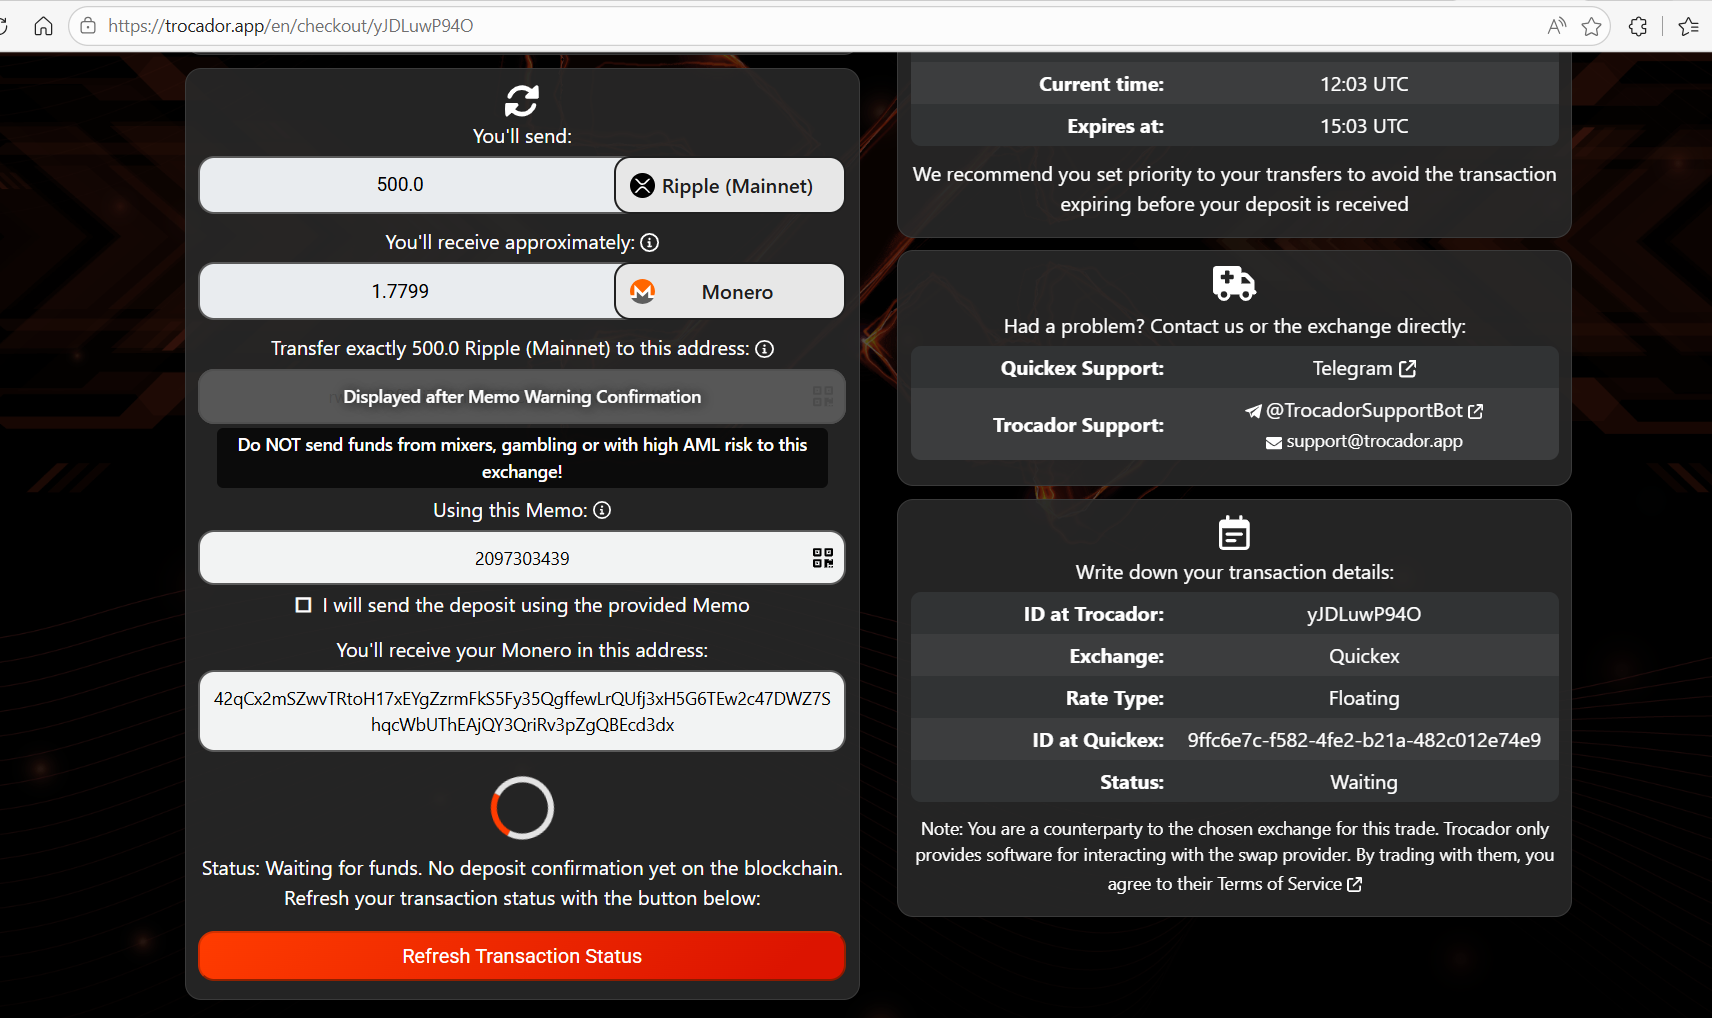
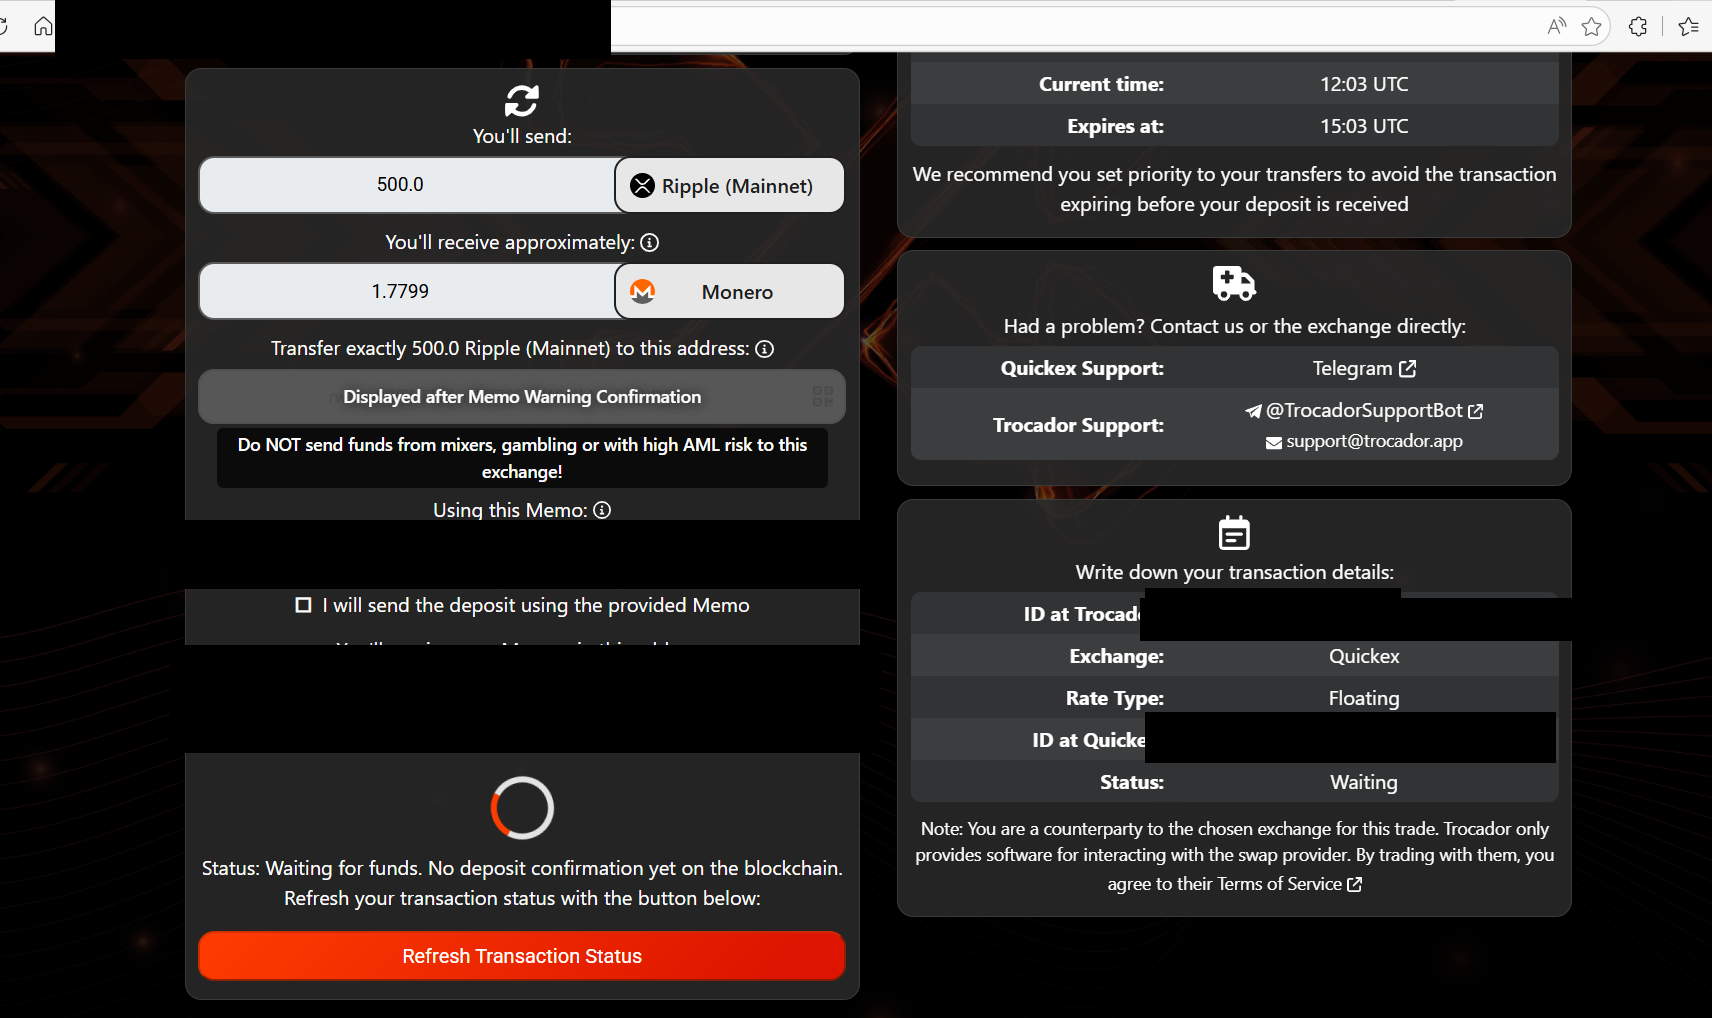
Add visual guide for swapping assets into Monero safely
Embed redacted screenshots to illustrate the swap process and protect user privacy.

Replit-Commit-Author: Agent
Replit-Commit-Session-Id: becae064-46f1-47b0-a414-b87196d20780
Replit-Commit-Checkpoint-Type: full_checkpoint
Replit-Commit-Event-Id: bf2f6d5e-f2f5-4274-a378-939c08b301c9
Replit-Commit-Screenshot-Url: https://storage.googleapis.com/screenshot-production-us-central1/803dbb6f-bc6e-4d16-8dab-da23c27c28c7/becae064-46f1-47b0-a414-b87196d20780/66jAvKe
Replit-Helium-Checkpoint-Created: true

diff --git a/client/src/pages/own-privately.tsx b/client/src/pages/own-privately.tsx
@@ -14,6 +14,10 @@ import {
   Lock,
   AlertTriangle,
 } from "lucide-react";
+import guideTab from "@assets/guide/guide-1-tab.png";
+import guideSwap from "@assets/guide/guide-2-swap.png";
+import guideAddress from "@assets/guide/guide-3-address.png";
+import guideSend from "@assets/guide/guide-4-send.png";
 
 interface PrivacyProvider {
   id: string;
@@ -229,6 +233,20 @@ export default function OwnPrivately() {
                 <strong>no results for XMR</strong>). The trick is always two moves:{" "}
                 <strong>get an ordinary coin first, then swap that coin into Monero.</strong>
               </p>
+              <figure className="mt-3 overflow-hidden rounded-lg border border-border bg-muted/30">
+                <img
+                  src={guideTab}
+                  alt="Searching xmr in Trocador's Buy/Sell dollars tab returns no results"
+                  className="w-full"
+                  loading="lazy"
+                  data-testid="img-guide-tab"
+                />
+                <figcaption className="border-t border-border px-3 py-2 text-xs text-muted-foreground">
+                  Searching <strong>"xmr"</strong> in the <strong>Buy/Sell</strong> (dollars) tab shows
+                  nothing — Monero can't be bought with a card. That's expected. The{" "}
+                  <strong>Swap</strong> tab is where it happens.
+                </figcaption>
+              </figure>
               <ul className="mt-2 space-y-1 text-muted-foreground">
                 <li>
                   <strong>Already own some crypto?</strong> Use a <strong>no-KYC swap service</strong>{" "}
@@ -287,6 +305,19 @@ export default function OwnPrivately() {
                 Choose the coin you already own as the "You send" coin (e.g. XRP), and set "You
                 receive" to <strong>Monero</strong>. Enter how much you want to send.
               </p>
+              <figure className="mt-3 overflow-hidden rounded-lg border border-border bg-muted/30">
+                <img
+                  src={guideSwap}
+                  alt="Trocador Swap tab with You send set to Ripple and trade for set to Monero"
+                  className="w-full"
+                  loading="lazy"
+                  data-testid="img-guide-swap"
+                />
+                <figcaption className="border-t border-border px-3 py-2 text-xs text-muted-foreground">
+                  The <strong>Swap</strong> tab: set <strong>You send</strong> to the coin you own,{" "}
+                  <strong>To trade for</strong> to Monero, then press <strong>Exchange</strong>.
+                </figcaption>
+              </figure>
             </div>
           </div>
           <div className="flex items-start gap-3" data-testid="swap-step-2">
@@ -300,6 +331,19 @@ export default function OwnPrivately() {
                 enter an XRP (or other) address here — that one comes next, and it comes <em>from</em>{" "}
                 the swap site to you.
               </p>
+              <figure className="mt-3 overflow-hidden rounded-lg border border-border bg-muted/30">
+                <img
+                  src={guideAddress}
+                  alt="Trocador exchange list with a box to paste your Monero receiving address"
+                  className="w-full"
+                  loading="lazy"
+                  data-testid="img-guide-address"
+                />
+                <figcaption className="border-t border-border px-3 py-2 text-xs text-muted-foreground">
+                  Pick an exchange row, then paste <strong>your Monero receiving address</strong> into
+                  the "receiving address" box and confirm. That's the only address you type.
+                </figcaption>
+              </figure>
             </div>
           </div>
           <div className="flex items-start gap-3" data-testid="swap-step-3">
@@ -317,6 +361,20 @@ export default function OwnPrivately() {
                 <strong>"Destination Tag"</strong> field, and send the <strong>exact amount</strong>{" "}
                 shown. You're sending from Uphold straight to the swap provider — never through us.
               </p>
+              <figure className="mt-3 overflow-hidden rounded-lg border border-border bg-muted/30">
+                <img
+                  src={guideSend}
+                  alt="Trocador checkout showing the deposit address and memo to send your coin to, with private details blanked out"
+                  className="w-full"
+                  loading="lazy"
+                  data-testid="img-guide-send"
+                />
+                <figcaption className="border-t border-border px-3 py-2 text-xs text-muted-foreground">
+                  The swap site now gives you a <strong>deposit address</strong> and a{" "}
+                  <strong>Memo</strong> — copy both into Uphold's send screen. (We've blanked out the
+                  real address, memo and IDs in this example for privacy.)
+                </figcaption>
+              </figure>
             </div>
           </div>
           <div className="rounded-md border border-primary/30 bg-primary/5 px-3 py-2" data-testid="text-address-direction">

diff --git a/client/public/sw.js b/client/public/sw.js
@@ -3,7 +3,7 @@
 // cache-first for static assets (icons, fonts, images).
 // Bumping CACHE_VERSION forces all clients to refresh on next load.
 
-const CACHE_VERSION = "cob-v24";
+const CACHE_VERSION = "cob-v26";
 const STATIC_CACHE = `${CACHE_VERSION}-static`;
 const RUNTIME_CACHE = `${CACHE_VERSION}-runtime`;
 

diff --git a/TODO.md b/TODO.md
@@ -1,6 +1,8 @@
 # CryptoOwnBank — To-Do List & Decision Log
 
-**Last updated: 2026-06-03 by main agent (Added a "heads up" note to the memo warning on `/own-privately`: some swap services hide the deposit address until you tick the memo-confirmation box. The founder noticed on Trocador's checkout that the XRP deposit address only appeared after he checked "I will send the deposit using the provided memo" — that's a deliberate safety feature (can't send without seeing the memo first). Added a one-line clarifier to the memo Alert in `client/src/pages/own-privately.tsx` so the hidden address isn't a surprise. Bumped service-worker CACHE_VERSION cob-v23→v24. tsc clean on the edited page; content-only. Previous same-day work below.)**
+**Last updated: 2026-06-03 by main agent (Added a redacted visual screenshot guide to `/own-privately` so members can SEE the Trocador swap flow, not just read it. The founder did a real XRP→Monero swap and sent his own screenshots asking to "capture these screenshots to help the member use it and understand." CRITICAL: two of the screenshots contained his REAL Monero receiving address, the live XRP deposit address + Memo, and Trocador/Quickex transaction IDs — publishing those on a PUBLIC page would tie him to Monero and let the XRP be traced. He confirmed "dont keep my address if you can block it out." Fix: used ImageMagick to black out every sensitive field on the checkout screenshots, re-read each output to verify no leak, AND overwrote the two original uploads in `attached_assets/` (since that folder gets committed) so his address is gone from the project entirely. Built 4 cleaned guide images in `attached_assets/guide/` and embedded them as captioned `<figure>` blocks in `client/src/pages/own-privately.tsx`: (1) the empty "xmr" search in the Buy/Sell tab → proves Monero isn't a card-buy; (2) the Swap tab set XRP→Monero; (3) the exchange list + "paste your Monero address" box; (4) the checkout deposit-address + Memo screen (private fields blanked, noted in the caption). Bumped service-worker CACHE_VERSION cob-v24→v25. tsc clean on the edited page (only pre-existing unrelated errors remain); app boots; page renders. Durable lesson recorded in agent memory (redacting member-supplied screenshots before publishing). Previous same-day work below.)**
+
+**Previous: 2026-06-03 by main agent (Added a "heads up" note to the memo warning on `/own-privately`: some swap services hide the deposit address until you tick the memo-confirmation box. The founder noticed on Trocador's checkout that the XRP deposit address only appeared after he checked "I will send the deposit using the provided memo" — that's a deliberate safety feature (can't send without seeing the memo first). Added a one-line clarifier to the memo Alert in `client/src/pages/own-privately.tsx` so the hidden address isn't a surprise. Bumped service-worker CACHE_VERSION cob-v23→v24. tsc clean on the edited page; content-only. Previous same-day work below.)**
 
 **Previous: 2026-06-03 by main agent (Fixed the #1 swap mix-up on `/own-privately` — which address goes WHERE. The founder, mid-swap on Trocador (1000 XRP → ~3.57 XMR), asked "i dont see where to get the xrp address to enter, say from Uphold to them, along with the memo." Root cause: directional confusion — he was looking for somewhere on the swap site to enter an XRP address, but the ONLY address you type INTO the swap site is your Monero receiving address. The swap site GIVES you the XRP deposit address + Memo on the next page, and you paste THOSE into Uphold's send screen. Fix on `client/src/pages/own-privately.tsx`: rewrote Step 2 ("the ONLY address you type here" = your XMR address; you do NOT enter an XRP address here) and Step 3 (the site GIVES you the deposit address + Memo → go to Uphold → Send / Withdraw crypto → To a crypto address, paste it, put the Memo in the Destination Tag field, send the exact amount). Added a highlighted "Which address goes where? (this is the #1 mix-up)" two-bullet clarifier. Bumped service-worker CACHE_VERSION cob-v22→v23. tsc clean on the edited page; content-only. Durable lesson recorded in agent memory (onramp-chain-coverage: address direction). Previous same-day work below.)**
 

diff --git a/.agents/memory/redacting-member-screenshots.md b/.agents/memory/redacting-member-screenshots.md
@@ -1,0 +1,28 @@
+---
+name: Redacting member-supplied screenshots before publishing
+description: How/why to scrub PII from member screenshots before embedding them on any public page or committing them
+---
+
+When a member sends screenshots to be used as a help/guide on a PUBLIC page, assume
+they may contain live secrets: receiving addresses, deposit addresses, memos/tags,
+transaction IDs, and session IDs in the URL bar. For a privacy product this is
+severe — e.g. a Monero receiving address ties the member to Monero, and an XRP
+deposit address + memo lets the transfer be traced on a public ledger.
+
+**Rule:** never embed a member screenshot on a public page without scrubbing it,
+and never leave the unredacted original in the working tree.
+
+**Why:** `attached_assets/` gets committed with the repo, and `@assets/...` imports
+bundle+serve the image publicly. So both the published page AND the committed
+original can leak. (Git checkpoint history may still hold an old copy — tell the
+member that history can't be easily purged.)
+
+**How to apply:**
+- `sharp`/`jimp`/`canvas` are NOT installed, but ImageMagick IS
+  (`magick`/`convert`). Black out fields with `-fill black -draw "rectangle x0,y0 x1,y1"`.
+- Get real dims with `identify` first; the read-tool preview is scaled (~1024 wide),
+  so scale your pixel estimates by actual_width/1024. Use generous boxes.
+- ALWAYS re-read the output image with the read tool to visually confirm nothing
+  sensitive remains before using it.
+- Overwrite the sensitive originals in place (not just the guide copies) so the
+  address is gone from the committed tree.

diff --git a/.agents/memory/MEMORY.md b/.agents/memory/MEMORY.md
@@ -21,3 +21,4 @@
 - [Route Planner capability matrix](route-planner-capability-matrix.md) — a guided multi-step planner must only emit hops the linked tool can really do; in-app cross-chain is EVM-only (no native BTC/XRP).
 - [PWA stale bundle / cache version](pwa-stale-bundle.md) — installed PWAs serve old JS until you bump CACHE_VERSION in client/public/sw.js; a shipped UI fix can look broken in prod otherwise.
 - [Destination/buy wallet picker](buy-destination-picker.md) — buy/send flows must offer ALL saved wallets per coin (members have many), not just the first match; "save & use new" must select the new one.
+- [Redacting member screenshots](redacting-member-screenshots.md) — member screenshots may hold live addresses/memos/tx-IDs; scrub with ImageMagick + re-read to verify, and overwrite the committed original, before any public embed.
